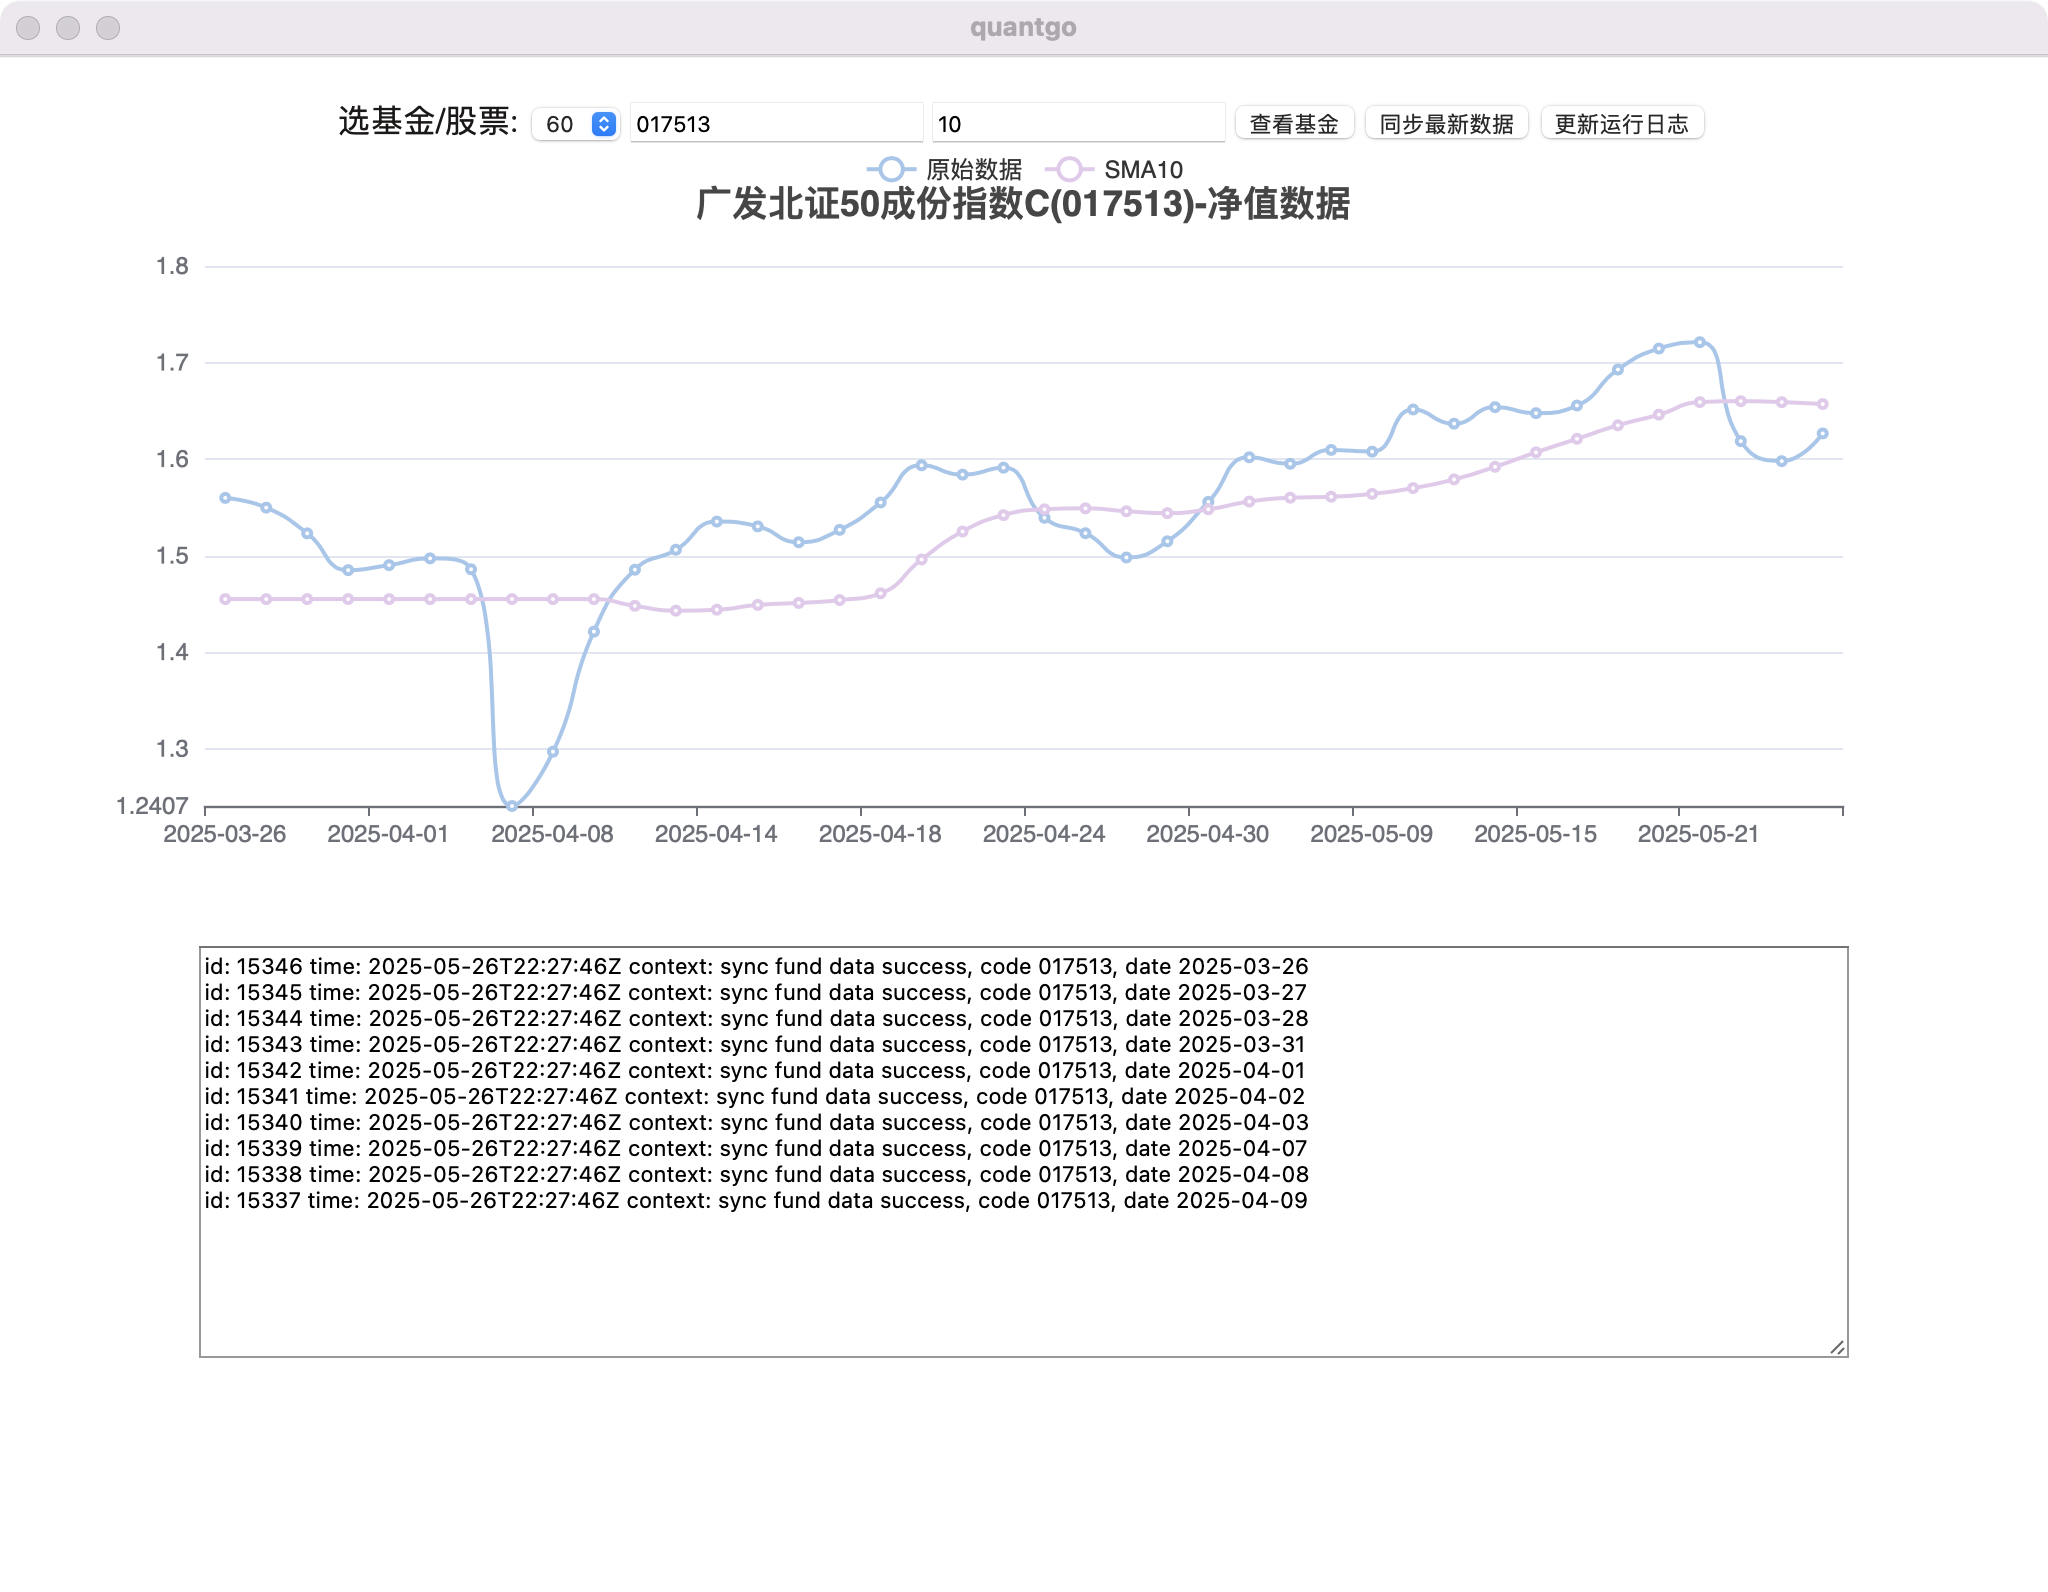
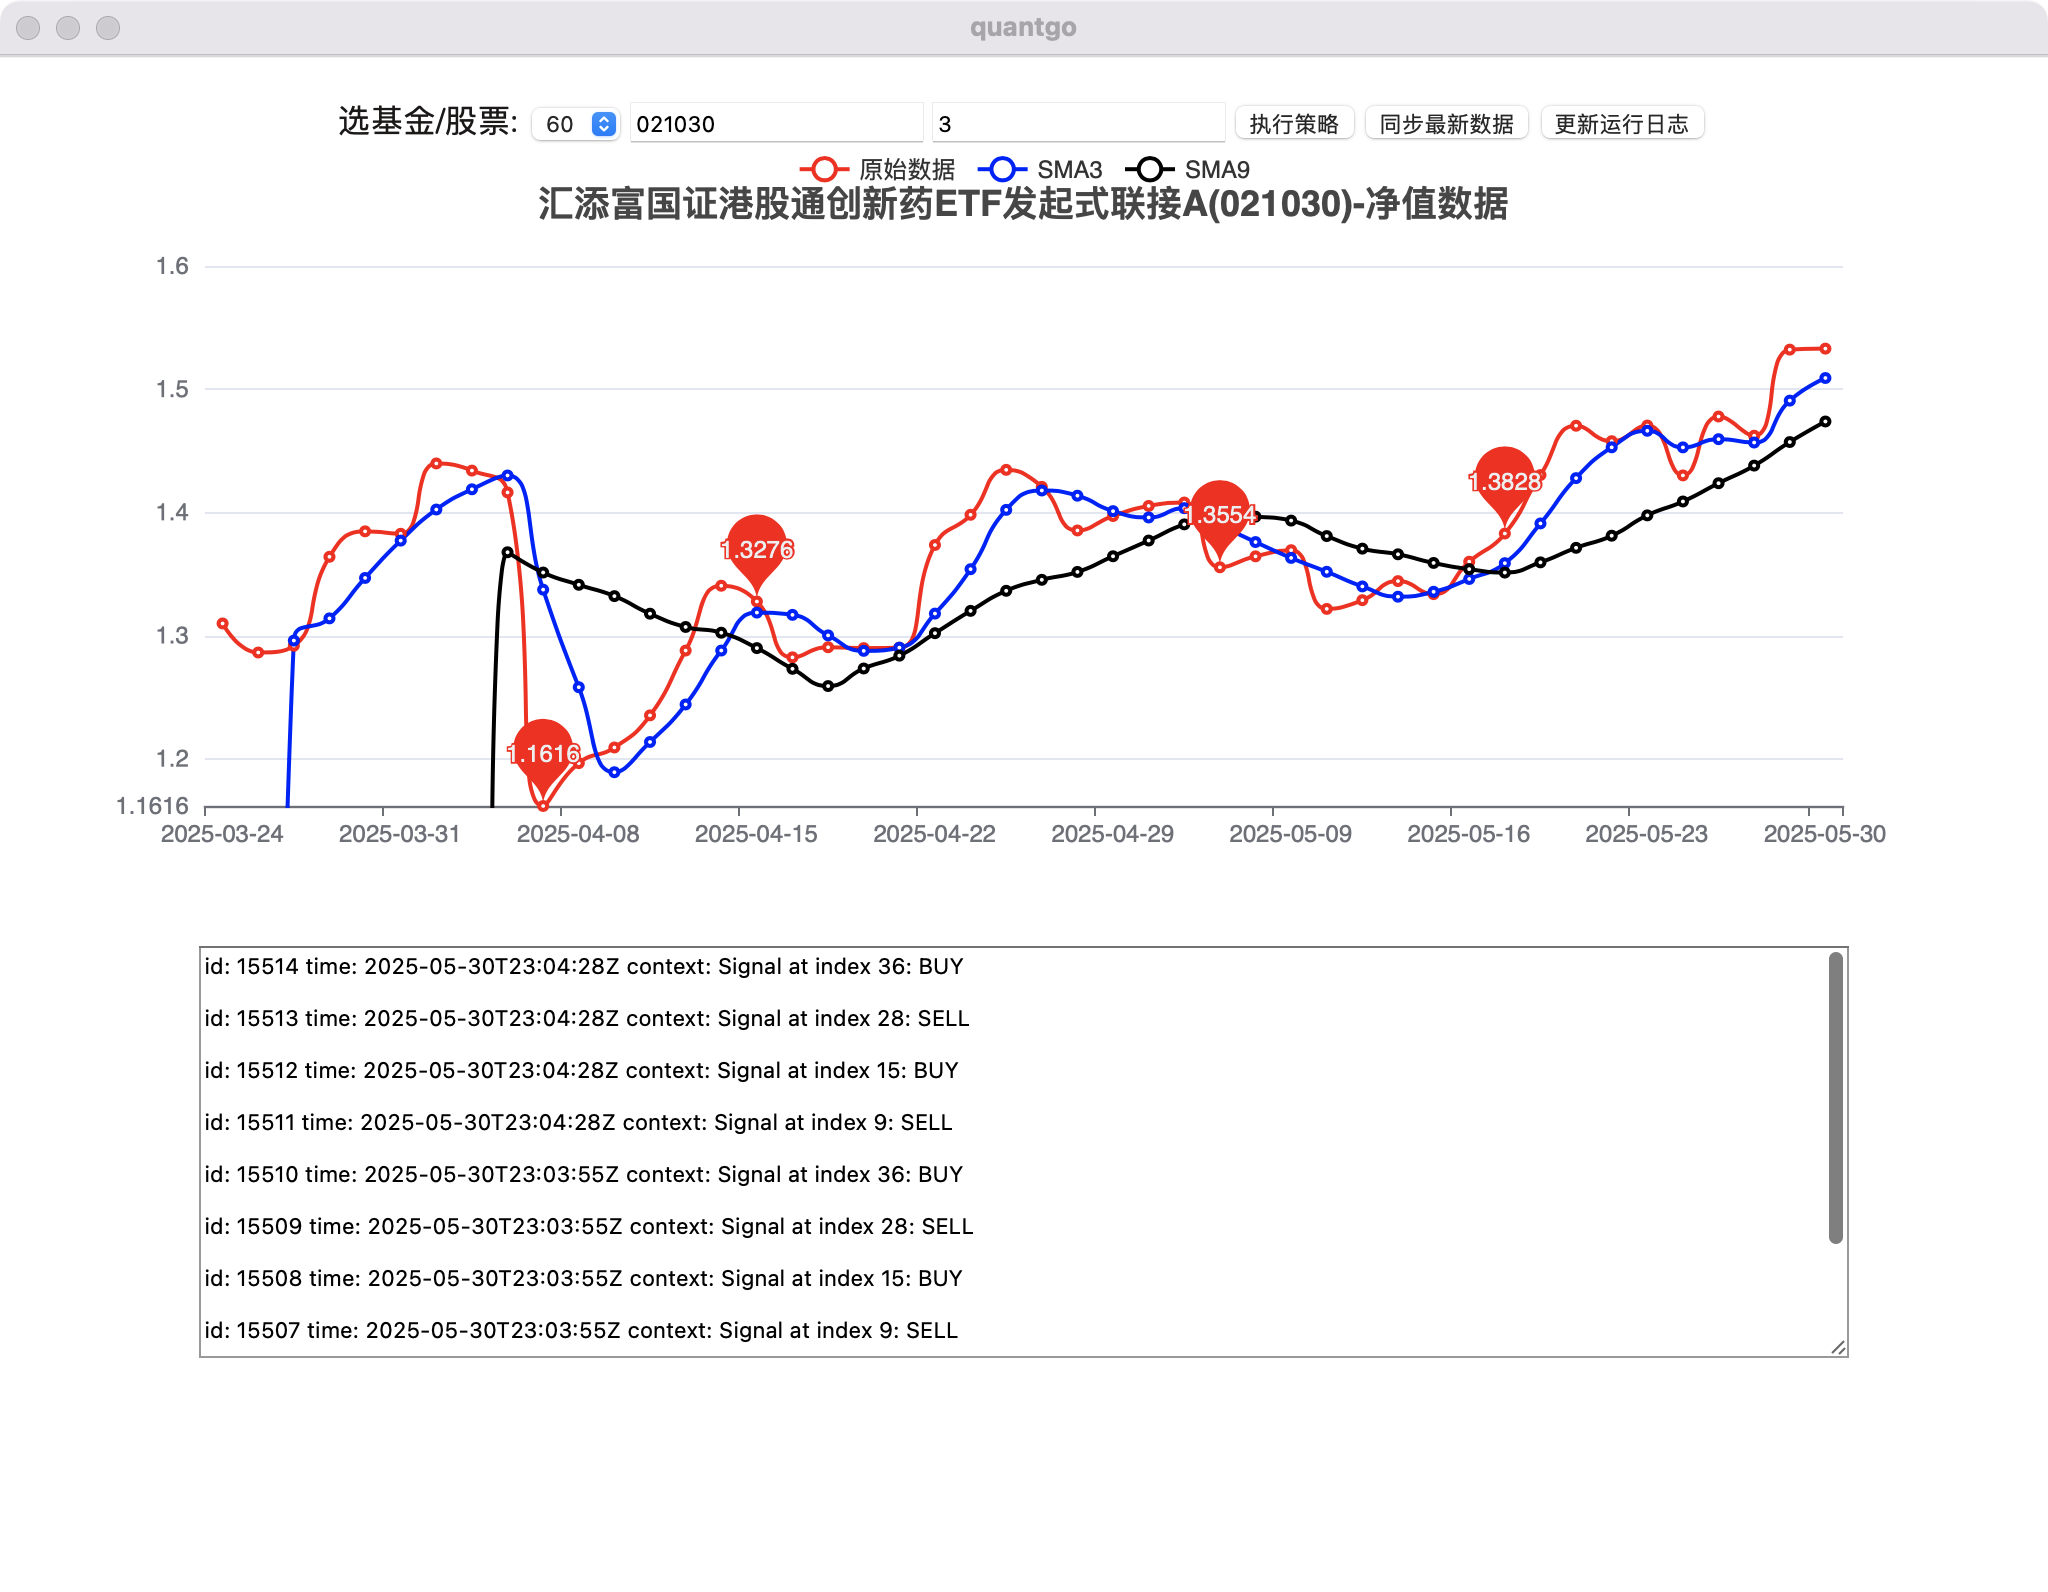
add Double moving average strategy

diff --git a/frontend/src/components/QuantGoConsole.vue b/frontend/src/components/QuantGoConsole.vue
@@ -10,7 +10,7 @@
     </select>
     <input id="code" type="text" placeholder="输入基金代码..."/>
     <input id="smaWin" type="text" placeholder="输入SMA窗口..."/>
-    <button class="btn" @click="updateData">查看基金</button>
+    <button class="btn" @click="updateData">执行策略</button>
     <button class="btn" @click="syncData">同步最新数据</button>
     <button class="btn"  @click="updateConsoleLog">更新运行日志</button>
     <br/>
@@ -23,7 +23,7 @@
 
 import * as echarts from 'echarts';
 import { onMounted } from 'vue';
-import { GetChartData, GetChartDataLabels, SyncStockHisData, SyncFundHisData, GetFundChartData, GetFundChartDataLabels, GetFundName, GetConsoleLogs, GetFundChartDataLastDaysLabels, GetFundChartLastDaysData, SimpleMovingAverage} from '../../wailsjs/go/main/App'
+import { GetChartData, GetChartDataLabels, SyncStockHisData, SyncFundHisData, GetFundChartData, GetFundChartDataLabels, GetFundName, GetConsoleLogs, GetFundChartDataLastDaysLabels, GetFundChartLastDaysData, SimpleMovingAverage, MovingAverageCrossover} from '../../wailsjs/go/main/App'
 
 async function updateConsoleLog() {
   const textarea = document.getElementById('consoleLog');
@@ -97,13 +97,26 @@ async function updateData() {
   const smaWinElement = document.getElementById("smaWin");
   const smaWinValue = Number(smaWinElement.value);
 
+  const smaWinValueMultiply3 = smaWinValue * 3;
 
   var xLabels = await GetFundChartDataLastDaysLabels(code, selectedValue);
   var fundData = await GetFundChartLastDaysData(code, selectedValue);
+  var singals = await MovingAverageCrossover(fundData.map(row => row[0]).reverse(), smaWinValue, smaWinValueMultiply3);
   var fundName = await GetFundName(code);
   var sam5 = await SimpleMovingAverage(fundData.map(row => row[0]).reverse(), smaWinValue);
+  var sma15 = await SimpleMovingAverage(fundData.map(row => row[0]).reverse(), smaWinValueMultiply3);
 
   var minValue = Math.min.apply(null, fundData.map(row => row[0]));
+
+  let markPoints = [];
+  for (let i = 0; i < singals.length; i++) {
+      markPoints.push(
+      { 
+        name: 'BUY', 
+        coord: [xLabels[singals[i]], fundData.map(row => row[0])[singals[i]]], 
+        value: fundData.map(row => row[0])[singals[i]]
+      });
+  }
 
   console.log(SimpleMovingAverage(fundData.map(row => row[0]).reverse(), smaWinValue));
   console.log(fundData.map(row => row[0]).reverse());
@@ -116,7 +129,7 @@ async function updateData() {
       data: xLabels.reverse()
     },
     legend: {
-      data: ['原始数据', 'SMA' + smaWinValue.toString()]
+      data: ['原始数据', 'SMA' + smaWinValue.toString(), 'SMA' + smaWinValueMultiply3.toString()]
     },
     yAxis: { type: 'value', min: minValue},
     series: [
@@ -125,16 +138,27 @@ async function updateData() {
         type: 'line',
         data: fundData.map(row => row[0]).reverse(),
         smooth: true,
-        itemStyle: { color: '#a3c6ed' },
-        lineStyle: { color: '#a3c6ed' }
+        itemStyle: { color: '#ff0000' },
+        lineStyle: { color: '#ff0000' },
+        markPoint: {
+            data: markPoints
+        }
       },
       {
         name: 'SMA' + smaWinValue.toString(),
         type: 'line',
         data: sam5,
         smooth: true,
-        itemStyle: { color: '#e3c9ed' },
-        lineStyle: { color: '#e3c9ed' }
+        itemStyle: { color: '#0000ff' },
+        lineStyle: { color: '#0000ff' }
+      },
+      {
+        name: 'SMA' + smaWinValueMultiply3.toString(),
+        type: 'line',
+        data: sma15,
+        smooth: true,
+        itemStyle: { color: '#000000' },
+        lineStyle: { color: '#000000' }
       } 
     ]
   })

diff --git a/frontend/wailsjs/go/main/App.d.ts b/frontend/wailsjs/go/main/App.d.ts
@@ -17,6 +17,8 @@ export function GetFundChartLastDaysData(arg1:string,arg2:number):Promise<Array<
 
 export function GetFundName(arg1:string):Promise<string>;
 
+export function MovingAverageCrossover(arg1:Array<number>,arg2:number,arg3:number):Promise<Array<number>>;
+
 export function SimpleMovingAverage(arg1:Array<number>,arg2:number):Promise<Array<number>>;
 
 export function SyncFundHisData(arg1:string):Promise<void>;

diff --git a/frontend/wailsjs/go/main/App.js b/frontend/wailsjs/go/main/App.js
@@ -34,6 +34,10 @@ export function GetFundName(arg1) {
   return window['go']['main']['App']['GetFundName'](arg1);
 }
 
+export function MovingAverageCrossover(arg1, arg2, arg3) {
+  return window['go']['main']['App']['MovingAverageCrossover'](arg1, arg2, arg3);
+}
+
 export function SimpleMovingAverage(arg1, arg2) {
   return window['go']['main']['App']['SimpleMovingAverage'](arg1, arg2);
 }

diff --git a/app.go b/app.go
@@ -5,9 +5,10 @@ import (
 	"database/sql"
 	"fmt"
 	"log"
-	"math"
 	"strings"
 	"time"
+
+	"github.com/gonum/stat"
 
 	_ "github.com/mattn/go-sqlite3"
 )
@@ -366,32 +367,55 @@ func (a *App) GetChartData(stock_code string, start_date string, end_date string
 	return matrix
 }
 
-func roundFloat(val float64, precision int) float64 {
-	shift := math.Pow(10, float64(precision))
-	return math.Round(val*shift) / shift
+func (a *App) SimpleMovingAverage(data []float64, windowSize int) []float64 {
+	sma := make([]float64, len(data))
+	for i := range data {
+		if i < windowSize-1 {
+			sma[i] = 0 // 不足窗口长度时不计算
+		} else {
+			windowData := data[i-windowSize+1 : i+1]
+			sma[i] = stat.Mean(windowData, nil)
+		}
+	}
+	return sma
 }
 
-func (a *App) SimpleMovingAverage(data []float64, windowSize int) []float64 {
-	var sma []float64
+func (a *App) MovingAverageCrossover(prices []float64, shortWindow, longWindow int) []int {
+	shortSMA := a.SimpleMovingAverage(prices, shortWindow)
+	longSMA := a.SimpleMovingAverage(prices, longWindow)
+	signals := make([]int, 0)
 
-	if windowSize <= 0 || len(data) < windowSize {
-		return sma // 返回空切片
+	var signal string
+	fmt.Printf("%5s | %7s | %7s | %7s\n", "Index", "Price", "Short", "Long")
+	fmt.Println("---------------------------------------------")
+
+	for i := 0; i < len(prices); i++ {
+		if i < longWindow {
+			continue
+		}
+
+		prevShort := shortSMA[i-1]
+		currShort := shortSMA[i]
+		prevLong := longSMA[i-1]
+		currLong := longSMA[i]
+
+		if prevShort <= prevLong && currShort > currLong {
+			signal = "BUY"
+		} else if prevShort >= prevLong && currShort < currLong {
+			signal = "SELL"
+		} else {
+			signal = ""
+		}
+
+		if signal != "" {
+			fmt.Printf("Signal at index %d: %s\n", i, signal)
+			signals = append(signals, len(prices)-i-1)
+			insertSQL := `INSERT INTO console_log (time, context) VALUES (?, ?)`
+			_, err := a.db.Exec(insertSQL, time.Now().Format("2006-01-02 15:04:05"), fmt.Sprintf("Signal at index %d: %s\n", i, signal))
+			if err != nil {
+				log.Fatalf("Failed to insert data: %v", err)
+			}
+		}
 	}
-
-	sum := 0.0
-	for i := 0; i < windowSize; i++ {
-		sum += data[i]
-	}
-
-	for i := 0; i < windowSize; i++ {
-		sma = append(sma, roundFloat(sum/float64(windowSize), 3))
-	}
-
-	// 滑动窗口
-	for i := windowSize; i < len(data); i++ {
-		sum += data[i] - data[i-windowSize]
-		sma = append(sma, roundFloat(sum/float64(windowSize), 3))
-	}
-
-	return sma
+	return signals
 }
